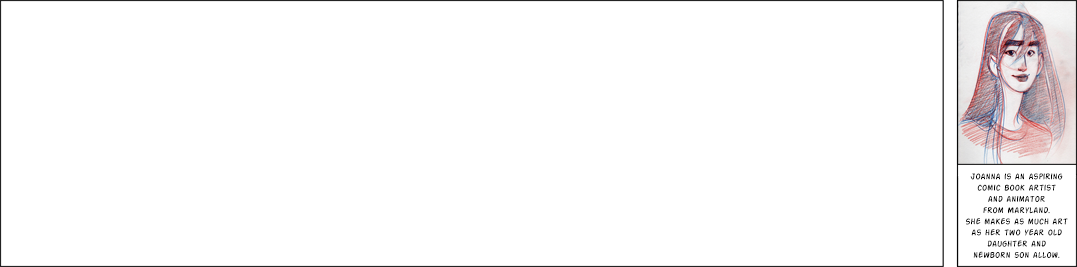
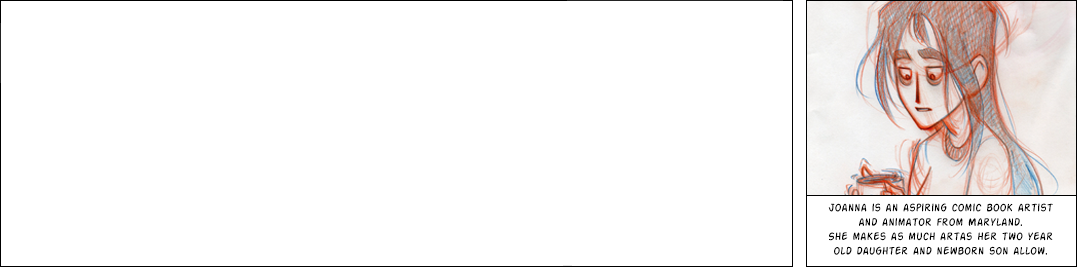
Updated news_blank

Changed region(s): [[0.0, 0.0, 1.0, 1.0], [0.0, 0.0, 0.5209, 0.03]]

diff --git a/style.css b/style.css
@@ -24,7 +24,7 @@
 	position:relative;
 	top:-230px;
 	left:32px;
-	width:900px;
+	width:760px;
 }
 
 .itemTable {
